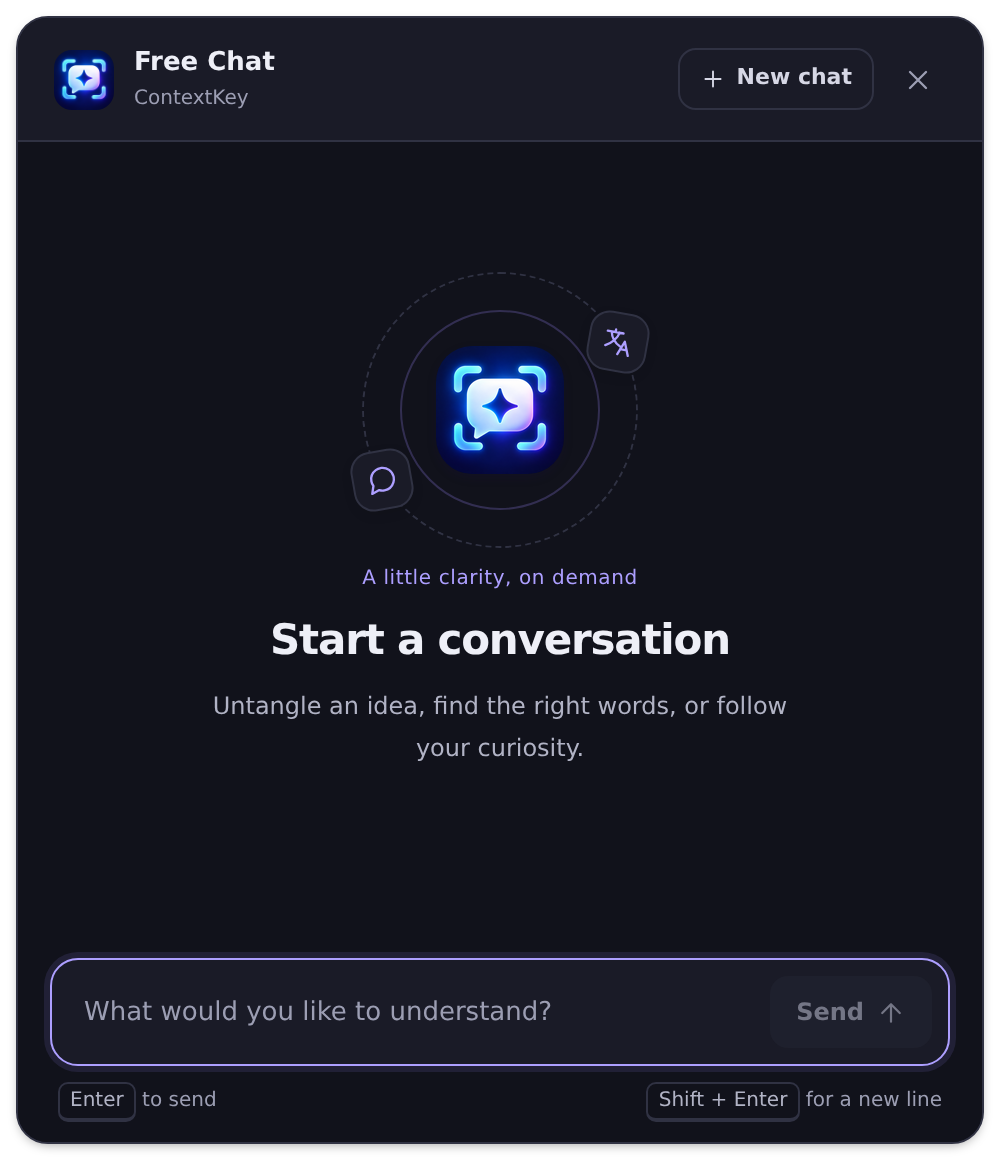
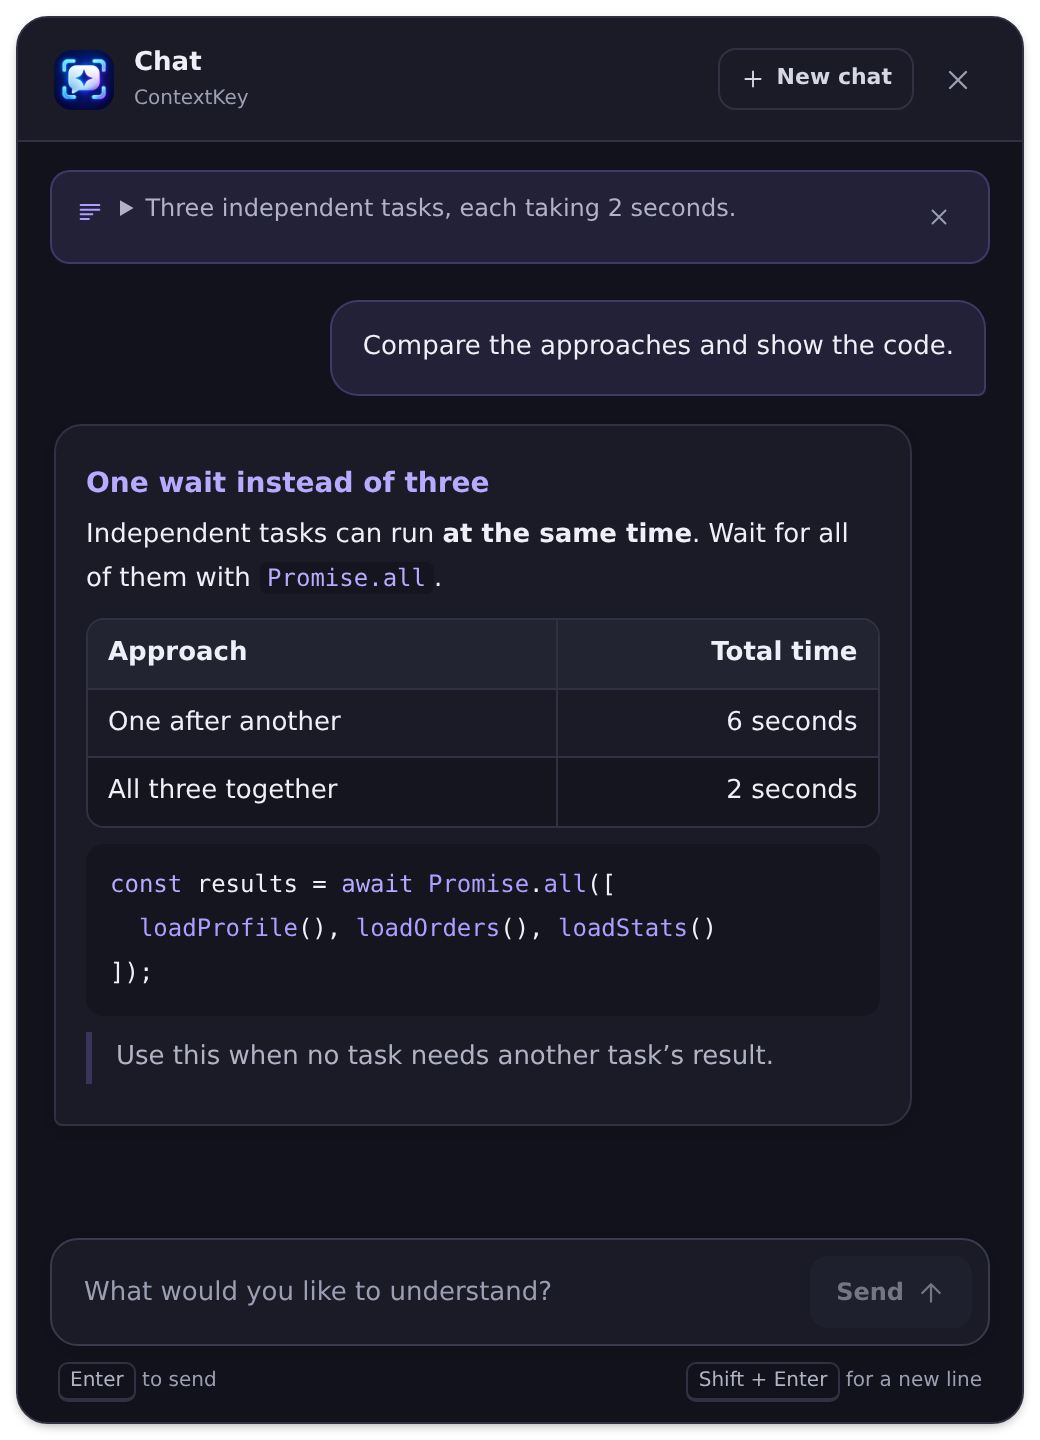
docs: showcase rich responses with refreshed UI previews
Refresh the README and preview gallery with light and dark examples of tables, highlighted code, formulas, diagrams, and translation. Add a local screenshot capture command with deterministic sample data.

Validation: generated and checked all 10 previews, verified popup transparency, and validated 49 local documentation links.

diff --git a/docs/previews/README.md b/docs/previews/README.md
@@ -1,16 +1,59 @@
 # UI previews
 
-ContextKey's updated logo and interface in light and dark themes. Captured on October 10, 2026 using sample data in the browser preview.
+These screenshots show ContextKey's current frontend in light and dark themes, including formatted responses. They are captured from the actual HTML, CSS, and JavaScript in Chromium at 2× resolution, using sample conversations and simulated desktop commands. They illustrate the UI; native Windows behavior is covered by the [release checks](../../openspec/QA-CHECKLIST.md).
 
-| Window | Light theme | Dark theme |
-| --- | --- | --- |
-| Settings | ![Settings in the light theme](settings-light.png) | ![Settings in the dark theme](settings-dark.png) |
-| Appearance | ![Appearance settings with Light selected](appearance-light.png) | ![Appearance settings with Dark selected](appearance-dark.png) |
-| Chat | ![Chat in the light theme](chat-light.png) | ![Chat in the dark theme](chat-dark.png) |
-| Translation | ![Translation popup in the light theme](popup-light.png) | ![Translation popup in the dark theme](popup-dark.png) |
+## Chat with tables and code
 
-The chat and translation previews preserve transparency around the rounded window borders.
+The selected text supplies context for a question about three independent tasks. The reply compares sequential and parallel execution in a table and shows highlighted JavaScript. The composer remains available below the answer.
+
+| Light theme | Dark theme |
+| :---: | :---: |
+| <img src="chat-light.png" alt="Chat with a comparison table, JavaScript code, and a quoted note in light theme" width="420" /> | <img src="chat-dark.png" alt="Chat with a comparison table, JavaScript code, and a quoted note in dark theme" width="420" /> |
+
+## Formulas and diagrams
+
+A related answer shows the speedup formula, a Mermaid task-flow diagram, and a checklist. **Diagram source** opens the original text; wide diagrams can be scrolled without widening the chat window.
+
+| Light theme | Dark theme |
+| :---: | :---: |
+| <img src="rich-content-light.png" alt="Chat showing a rendered speedup formula, a three-branch task diagram, and completed checklist in light theme" width="420" /> | <img src="rich-content-dark.png" alt="Chat showing a rendered speedup formula, a three-branch task diagram, and completed checklist in dark theme" width="420" /> |
+
+## Translation with formatting
+
+The English source becomes a Vietnamese translation with its heading and table preserved. **Copy** is available after the response completes.
+
+| Light theme | Dark theme |
+| :---: | :---: |
+| <img src="popup-light.png" alt="Vietnamese translation preserving a heading, bold text, and table in light theme" width="420" /> | <img src="popup-dark.png" alt="Vietnamese translation preserving a heading, bold text, and table in dark theme" width="420" /> |
+
+## Connection settings
+
+Provider and model fields use sample values. The displayed key is a placeholder; the capture process does not contact a provider or load saved settings.
+
+| Light theme | Dark theme |
+| :---: | :---: |
+| <img src="settings-light.png" alt="Connection settings with provider and text/vision model fields in light theme" width="420" /> | <img src="settings-dark.png" alt="Connection settings with provider and text/vision model fields in dark theme" width="420" /> |
+
+## Appearance
 
 Choose **System**, **Light**, or **Dark** in **Settings → Appearance → Theme**, then select **Save changes**.
+
+| Light theme | Dark theme |
+| :---: | :---: |
+| <img src="appearance-light.png" alt="Appearance settings with Light selected" width="420" /> | <img src="appearance-dark.png" alt="Appearance settings with Dark selected" width="420" /> |
+
+## Refresh the screenshots
+
+From the repository root:
+
+```sh
+npm ci
+npx playwright install chromium
+npm run docs:screenshots
+```
+
+The [capture script](../../scripts/capture-docs.mjs) opens the local frontend, sends sample responses through the normal stream listeners, and waits for fonts, images, and diagrams before capturing all ten PNGs. It blocks HTTP requests and does not require an API key or a running desktop app. Set `PLAYWRIGHT_CHROMIUM_EXECUTABLE_PATH` to use an existing Chromium installation.
+
+Chat and translation images retain transparent corners and the app's own shadow. Review both themes after changing the sample content or UI; confirm that the featured content and primary controls are visible. Commit the screenshots together with any updated captions.
 
 [Back to ContextKey](../../Readme.md)

diff --git a/Readme.md b/Readme.md
@@ -29,10 +29,10 @@ Select text or capture a screen region, invoke a shortcut, and work with the res
 
 | Light theme | Dark theme |
 | :---: | :---: |
-| <img src="docs/previews/popup-light.png" alt="Light translation popup showing English text translated into Vietnamese" width="420" /> | <img src="docs/previews/popup-dark.png" alt="Dark translation popup showing English text translated into Vietnamese" width="420" /> |
+| <img src="docs/previews/chat-light.png" alt="Light chat popup comparing sequential and parallel tasks in a table, with highlighted JavaScript" width="420" /> | <img src="docs/previews/chat-dark.png" alt="Dark chat popup comparing sequential and parallel tasks in a table, with highlighted JavaScript" width="420" /> |
 
 <p align="center">
-  <sub>Browser previews with sample text. <a href="docs/previews/README.md">Explore the chat, settings, and appearance previews →</a></sub>
+  <sub>Actual UI rendered in Chromium with sample conversations. <a href="docs/previews/README.md">See translation, formulas, diagrams, and settings →</a></sub>
 </p>
 
 ## Features
@@ -80,6 +80,12 @@ Select text and invoke the translation shortcut. The result streams into a popup
 
 Drag the header to move the popup or resize its edges to adjust the reading area. Manual sizes are remembered. Press <kbd>Esc</kbd> or click outside to close it.
 
+Markdown formatting carries through to the result, including tables and emphasis:
+
+| Light theme | Dark theme |
+| :---: | :---: |
+| <img src="docs/previews/popup-light.png" alt="Vietnamese translation with a two-column table in the light theme" width="420" /> | <img src="docs/previews/popup-dark.png" alt="Vietnamese translation with a two-column table in the dark theme" width="420" /> |
+
 ### Ask about selected text
 
 Use the chat shortcut to open a conversation with the copied text as context. Chat stays open when you switch applications and is accessible from the taskbar.
@@ -96,6 +102,15 @@ Use the chat shortcut to open a conversation with the copied text as context. Ch
 Closing the chat window ends the session.
 
 </details>
+
+### Read formatted answers
+
+Replies render tables, nested lists, quotes, checklists, highlighted code, links, and images while they stream. Formulas and Mermaid diagrams render with local assets. See the [formula and diagram previews](docs/previews/README.md#formulas-and-diagrams).
+
+- Scroll wide tables, code blocks, formulas, and diagrams horizontally. Focus the content with <kbd>Tab</kbd> to scroll it with the arrow keys.
+- Select and copy text while a reply is arriving; new chunks preserve your selection and reading position.
+- Expand **Diagram source** to inspect the Mermaid text. If a formula or diagram cannot render, its source remains readable.
+- Open web and email links in your default browser or mail application.
 
 ### Ask about a screenshot
 

diff --git a/docs/DEVELOPMENT.md b/docs/DEVELOPMENT.md
@@ -60,6 +60,10 @@ Tests run in light and dark themes and cover chat retry, attachment retention an
 
 The saved `theme` preference uses Tauri's [app-wide `set_theme`](https://docs.rs/tauri/latest/tauri/struct.AppHandle.html#method.set_theme) at startup and after saving. On Windows, this updates native windows and WebView2's color preference; `theme.css` continues to use `prefers-color-scheme`. Keep window-specific theme overrides unset so new and existing windows inherit the app preference. The browser suite mocks config persistence; it does not exercise the native theme API.
 
+### Documentation screenshots
+
+Run `npm run docs:screenshots` after installing the browser-test prerequisites above to refresh the [preview gallery](previews/README.md). The capture script uses the actual frontend with local sample data, waits for fonts and rendered diagrams, and writes light/dark PNGs at 2× resolution. It does not read saved settings or contact a model provider. Review the resulting images and update their captions when changing a visible workflow.
+
 ### Updating Markdown libraries
 
 Rendering uses pinned npm dependencies bundled into committed files in `frontend/vendor/`. Ordinary Tauri builds still use static assets without Node.js. Markdown, math, highlighting, and diagram rendering require no CDN; Markdown image URLs can load external images. Mermaid loads only when a diagram is present. The generated assets total about 6 MiB before packaging compression.
